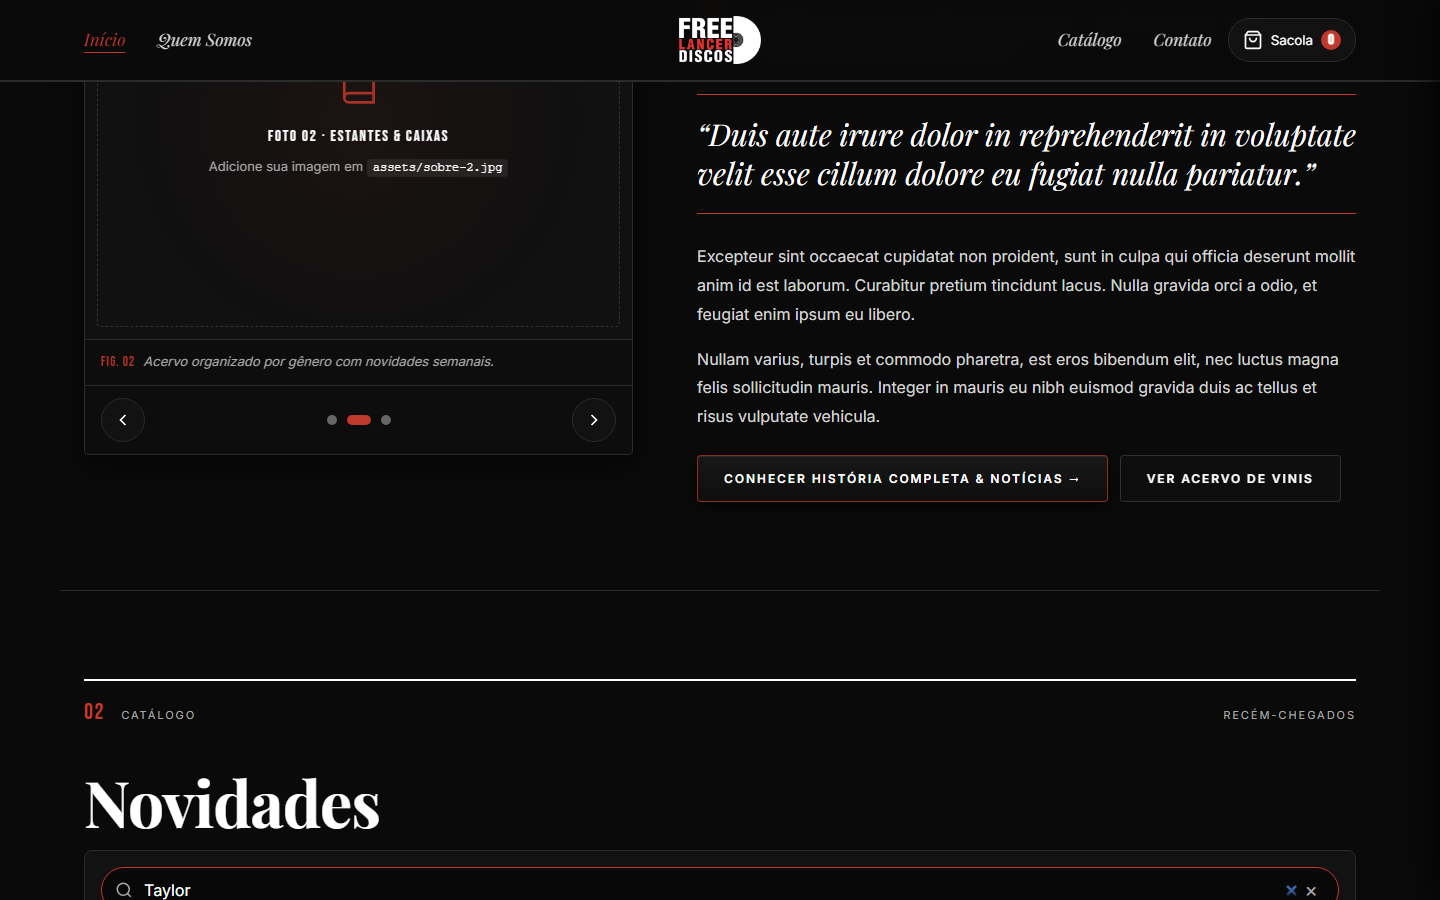
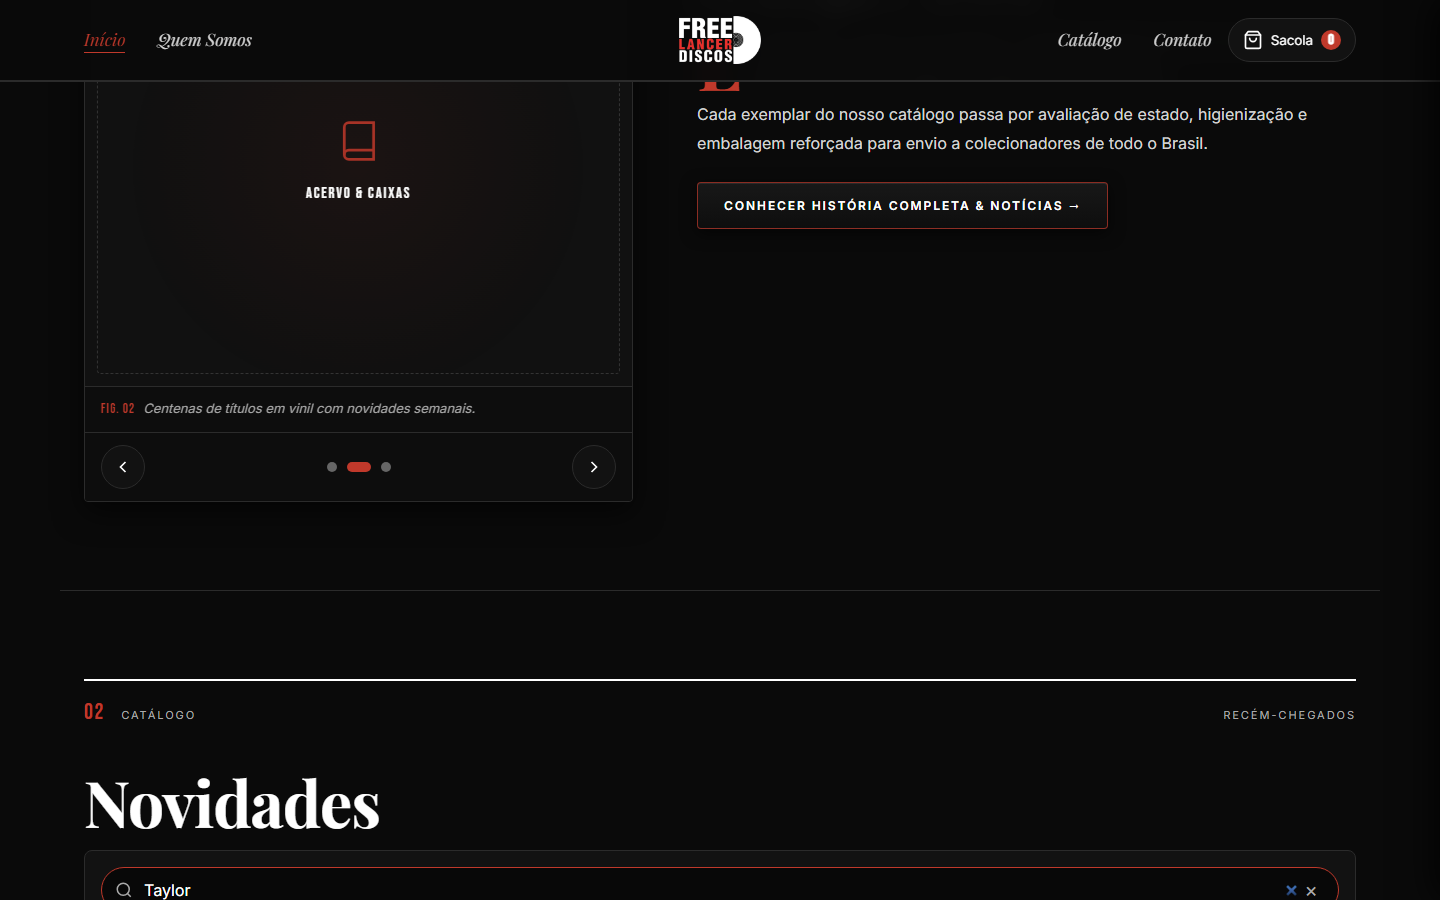
refactor(ui): remove redundancias visuais, placeholders tecnicos e lorem ipsum

diff --git a/index.html b/index.html
@@ -23,8 +23,8 @@
   <!-- Topbar Editorial Metadados -->
   <header class="topbar">
     <div class="meta-container">
-      <span class="meta-item meta-edition">Acervo em Vinil</span>
-      <span class="meta-item meta-tagline">Vinil · Raridades · Novidades</span>
+      <span class="meta-item meta-edition">Loja Oficial</span>
+      <span class="meta-item meta-tagline">Discos selecionados com envio para todo o Brasil</span>
       <span class="meta-item meta-location">Fortaleza, CE</span>
     </div>
   </header>
@@ -85,10 +85,10 @@
       <div class="hero-text">
         <span class="hero-kicker">CAPA · A SELEÇÃO DA SEMANA</span>
         <h1 class="hero-title">Cada Disco,<br><em>Uma</em> História</h1>
-        <p class="hero-lede">Lorem ipsum dolor sit amet, consectetur adipiscing elit. Sed do eiusmod tempor incididunt ut labore et dolore magna aliqua.</p>
+        <p class="hero-lede">Novidades e raridades analógicas garimpadas para colecionadores. Reserve seus discos e feche o pedido direto pelo WhatsApp.</p>
         <div class="hero-actions">
           <a href="#catalogo" class="btn btn-primary">Explorar Catálogo →</a>
-          <a href="#sobre" class="btn btn-outline">Conheça a Loja</a>
+          <a href="sobre.html" class="btn btn-outline">Conheça a Loja</a>
         </div>
       </div>
 
@@ -138,14 +138,12 @@
                         <polyline points="21 15 16 10 5 21"></polyline>
                       </svg>
                     </div>
-                    <span class="placeholder-tag">Foto 01 · Fachada & Balcão</span>
-                    <p class="placeholder-desc">Adicione sua imagem em <code>assets/sobre-1.jpg</code></p>
+                    <span class="placeholder-tag">Fachada & Atendimento</span>
                   </div>
-                  <!-- Foto futura: <img src="assets/sobre-1.jpg" alt="Fachada e balcão" class="slide-photo" loading="lazy"> -->
                 </div>
                 <div class="slide-caption">
                   <span class="caption-fig">Fig. 01</span>
-                  <span class="caption-text">Espaço de recepção, garimpo e atendimento da loja.</span>
+                  <span class="caption-text">Recepção, garimpo e conversa sobre música no Centro de Fortaleza.</span>
                 </div>
               </article>
 
@@ -159,14 +157,12 @@
                         <path d="M6.5 2H20v20H6.5A2.5 2.5 0 0 1 4 19.5v-15A2.5 2.5 0 0 1 6.5 2z"></path>
                       </svg>
                     </div>
-                    <span class="placeholder-tag">Foto 02 · Estantes & Caixas</span>
-                    <p class="placeholder-desc">Adicione sua imagem em <code>assets/sobre-2.jpg</code></p>
+                    <span class="placeholder-tag">Acervo & Caixas</span>
                   </div>
-                  <!-- Foto futura: <img src="assets/sobre-2.jpg" alt="Estantes de vinil" class="slide-photo" loading="lazy"> -->
                 </div>
                 <div class="slide-caption">
                   <span class="caption-fig">Fig. 02</span>
-                  <span class="caption-text">Acervo organizado por gênero com novidades semanais.</span>
+                  <span class="caption-text">Centenas de títulos em vinil com novidades semanais.</span>
                 </div>
               </article>
 
@@ -182,14 +178,12 @@
                         <line x1="12" y1="20" x2="12" y2="22"></line>
                       </svg>
                     </div>
-                    <span class="placeholder-tag">Foto 03 · Ponto de Audição</span>
-                    <p class="placeholder-desc">Adicione sua imagem em <code>assets/sobre-3.jpg</code></p>
+                    <span class="placeholder-tag">Ponto de Audição</span>
                   </div>
-                  <!-- Foto futura: <img src="assets/sobre-3.jpg" alt="Ponto de audição" class="slide-photo" loading="lazy"> -->
                 </div>
                 <div class="slide-caption">
                   <span class="caption-fig">Fig. 03</span>
-                  <span class="caption-text">Ambiente de audição para testar os vinis na hora.</span>
+                  <span class="caption-text">Toca-discos preparado para testar qualquer disco na hora.</span>
                 </div>
               </article>
 
@@ -223,19 +217,12 @@
 
       <!-- Conteúdo Editorial -->
       <div class="about-content">
-        <h2 class="editorial-heading">Sobre <em>Nós</em></h2>
-        <p class="about-lead">Lorem ipsum dolor sit amet, consectetur adipiscing elit. Sed do eiusmod tempor incididunt ut labore et dolore magna aliqua. Ut enim ad minim veniam, quis nostrud exercitation ullamco laboris.</p>
-        
-        <blockquote class="about-quote">
-          “Duis aute irure dolor in reprehenderit in voluptate velit esse cillum dolore eu fugiat nulla pariatur.”
-        </blockquote>
-        
-        <p>Excepteur sint occaecat cupidatat non proident, sunt in culpa qui officia deserunt mollit anim id est laborum. Curabitur pretium tincidunt lacus. Nulla gravida orci a odio, et feugiat enim ipsum eu libero.</p>
-        <p>Nullam varius, turpis et commodo pharetra, est eros bibendum elit, nec luctus magna felis sollicitudin mauris. Integer in mauris eu nibh euismod gravida duis ac tellus et risus vulputate vehicula.</p>
+        <h2 class="editorial-heading">A Loja <em>Física</em></h2>
+        <p class="about-lead">Localizada no Centro de Fortaleza, a Freelancer Discos reúne um acervo selecionado com raridades brasileiras e internacionais.</p>
+        <p>Cada exemplar do nosso catálogo passa por avaliação de estado, higienização e embalagem reforçada para envio a colecionadores de todo o Brasil.</p>
         
         <div style="margin-top: 24px; display: flex; gap: 12px; flex-wrap: wrap;">
           <a href="sobre.html" class="btn btn-primary">Conhecer História Completa & Notícias →</a>
-          <a href="#catalogo" class="btn btn-outline">Ver Acervo de Vinis</a>
         </div>
       </div>
     </div>
@@ -290,10 +277,10 @@
       <span class="section-extra">Fale com a Casa</span>
     </div>
 
-    <div class="contact-card-grid">
+    <div class="contact-card-grid" style="grid-template-columns: repeat(auto-fit, minmax(280px, 1fr));">
       <div class="contact-box">
-        <h3 class="contact-box-title">Atendimento Direto</h3>
-        <p>Tire dúvidas sobre conservação, envie sua lista de desejos ou solicite fotos e vídeos do vinil tocando.</p>
+        <h3 class="contact-box-title">Atendimento & Encomendas</h3>
+        <p>Tire dúvidas sobre prensagens e estado do disco, envie sua lista de desejos ou solicite vídeos do vinil tocando na agulha.</p>
         <a href="#" id="directWhatsappBtn" class="btn btn-whatsapp-card" target="_blank" rel="noopener">
           <svg viewBox="0 0 24 24" width="20" height="20" fill="currentColor">
             <path d="M12.04 2c-5.46 0-9.91 4.45-9.91 9.91 0 1.75.46 3.45 1.32 4.95L2.05 22l5.25-1.38c1.45.79 3.08 1.21 4.74 1.21 5.46 0 9.91-4.45 9.91-9.91 0-2.65-1.03-5.14-2.9-7.01A9.82 9.82 0 0 0 12.04 2z"/>
@@ -303,17 +290,12 @@
       </div>
 
       <div class="contact-box">
-        <h3 class="contact-box-title">Fortaleza, CE</h3>
+        <h3 class="contact-box-title">Loja Física & Garimpo</h3>
         <p id="storeAddress">Rua Dr. João Moreira, 485 — Centro, Fortaleza - CE. Atendimento presencial e envio diário com embalagem reforçada para todo o Brasil.</p>
-        <p class="contact-email"><strong>E-mail:</strong> <span id="storeEmail">contato@freelancerdiscos.com.br</span></p>
-      </div>
-
-      <div class="contact-box">
-        <h3 class="contact-box-title">Siga a Freelancer</h3>
-        <p>Acompanhe garimpos em tempo real, novos discos e lançamentos da semana no nosso perfil.</p>
         <a href="https://www.instagram.com/freelancer_discosalex/" id="storeInstagram" class="contact-social-link" target="_blank" rel="noopener">
           @freelancer_discosalex no Instagram →
         </a>
+        <span id="storeEmail" style="display: none;">contato@freelancerdiscos.com.br</span>
       </div>
     </div>
   </section>

diff --git a/sobre.html b/sobre.html
@@ -83,9 +83,9 @@
   <section class="about-hero-section">
     <div class="about-hero-inner">
       <span class="about-hero-kicker">HISTÓRIA & MANIFESTO · FREELANCER DISCOS</span>
-      <h1 class="about-hero-title">Nossa História,<br><em>O Vinil</em> & Notícias</h1>
+      <h1 class="about-hero-title">Nossa História,<br><em>O Vinil</em> & A Cidade</h1>
       <p class="about-hero-lede">
-        Lorem ipsum dolor sit amet, consectetur adipiscing elit. Sed do eiusmod tempor incididunt ut labore et dolore magna aliqua. Ut enim ad minim veniam, quis nostrud exercitation ullamco laboris.
+        Mais que uma loja, um refúgio para quem entende a música como experiência física, tátil e inegociável no Centro de Fortaleza.
       </p>
       <div class="about-hero-actions">
         <a href="#historia" class="btn btn-primary">Conhecer a Trajetória ↓</a>
@@ -94,7 +94,7 @@
     </div>
   </section>
 
-  <!-- Seção 01: A História & Trajetória (Modelada em Lorem Ipsum) -->
+  <!-- Seção 01: A História & Trajetória -->
   <section class="section-container" id="historia">
     <div class="section-header">
       <span class="section-num">01</span>
@@ -106,19 +106,15 @@
       <div class="about-content" style="grid-column: 1 / -1; max-width: 920px; margin: 0 auto;">
         <h2 class="editorial-heading">A Origem do <em>Garimpo</em></h2>
         <p class="about-lead">
-          Lorem ipsum dolor sit amet, consectetur adipiscing elit. Integer nec odio. Praesent libero. Sed cursus ante dapibus diam. Sed nisi. Nulla quis sem at nibh elementum imperdiet. Duis sagittis ipsum.
+          A Freelancer Discos nasceu do fascínio pelo ritual analógico: folhear capas, decifrar fichas técnicas, sentir o peso do vinil e descobrir sonoridades esquecidas pelo algoritmo.
         </p>
 
         <blockquote class="about-quote">
-          “Lorem ipsum dolor sit amet, consectetur adipiscing elit. Curabitur pretium tincidunt lacus. Nulla gravida orci a odio, et feugiat enim ipsum eu libero.”
+          “Cada disco que passa por nossas mãos carrega uma época, uma história e uma nova escuta esperando para acontecer.”
         </blockquote>
 
         <p>
-          Lorem ipsum dolor sit amet, consectetur adipiscing elit. Sed do eiusmod tempor incididunt ut labore et dolore magna aliqua. Ut enim ad minim veniam, quis nostrud exercitation ullamco laboris nisi ut aliquip ex ea commodo consequat. Duis aute irure dolor in reprehenderit in voluptate velit esse cillum dolore eu fugiat nulla pariatur.
-        </p>
-
-        <p>
-          Excepteur sint occaecat cupidatat non proident, sunt in culpa qui officia deserunt mollit anim id est laborum. Nullam varius, turpis et commodo pharetra, est eros bibendum elit, nec luctus magna felis sollicitudin mauris. Integer in mauris eu nibh euismod gravida duis ac tellus et risus vulputate vehicula.
+          O que começou com garimpos individuais em feiras e coleções particulares transformou-se em um acervo vivo com centenas de títulos catalogados. Nosso compromisso é com a transparência: avaliação rigorosa do estado de conservação, higienização profissional e embalagens preparadas para resistir ao transporte por todo o país.
         </p>
 
         <!-- Timeline Cronológica Editorial -->
@@ -126,25 +122,25 @@
           <div class="timeline-card">
             <span class="timeline-year">2018</span>
             <h3 class="timeline-heading">O Primeiro Garimpo</h3>
-            <p class="timeline-text">Lorem ipsum dolor sit amet, consectetur adipiscing elit. Sed do eiusmod tempor incididunt ut labore.</p>
+            <p class="timeline-text">Início da circulação em feiras de vinil e formação do primeiro acervo de música brasileira.</p>
           </div>
 
           <div class="timeline-card">
             <span class="timeline-year">2021</span>
             <h3 class="timeline-heading">Espaço no Centro</h3>
-            <p class="timeline-text">Duis aute irure dolor in reprehenderit in voluptate velit esse cillum dolore eu fugiat nulla pariatur.</p>
+            <p class="timeline-text">Abertura do ponto físico na Rua Dr. João Moreira, 485, tornando-se referência de garimpo.</p>
           </div>
 
           <div class="timeline-card">
             <span class="timeline-year">2024</span>
             <h3 class="timeline-heading">Caixas 50 e 51</h3>
-            <p class="timeline-text">Excepteur sint occaecat cupidatat non proident, sunt in culpa qui officia deserunt mollit anim id est.</p>
+            <p class="timeline-text">Chegada de lotes raros com discos icônicos e prensagens originais de MPB, Rock e Jazz.</p>
           </div>
 
           <div class="timeline-card">
             <span class="timeline-year">2026</span>
-            <h3 class="timeline-heading">Acervo Vivo & Conexão</h3>
-            <p class="timeline-text">Nullam varius, turpis et commodo pharetra, est eros bibendum elit, nec luctus magna felis sollicitudin.</p>
+            <h3 class="timeline-heading">Catálogo Digital</h3>
+            <p class="timeline-text">Integração do acervo físico à loja online com reserva em tempo real via WhatsApp.</p>
           </div>
         </div>
       </div>

diff --git a/js/app.js b/js/app.js
@@ -287,8 +287,8 @@ const CatalogView = {
     card.setAttribute('data-id', record.id);
     card.innerHTML = `
       <div class="record-top-meta">
-        <span class="record-num">${String(record.numero).padStart(2, '0')}</span>
-        <span class="record-badge">Vinil LP</span>
+        <span class="record-num">#${String(record.numero).padStart(2, '0')}</span>
+        ${record.caixa ? `<span class="record-badge">${record.caixa}</span>` : ''}
       </div>
       <div class="record-artwork">
         ${coverHtml}
